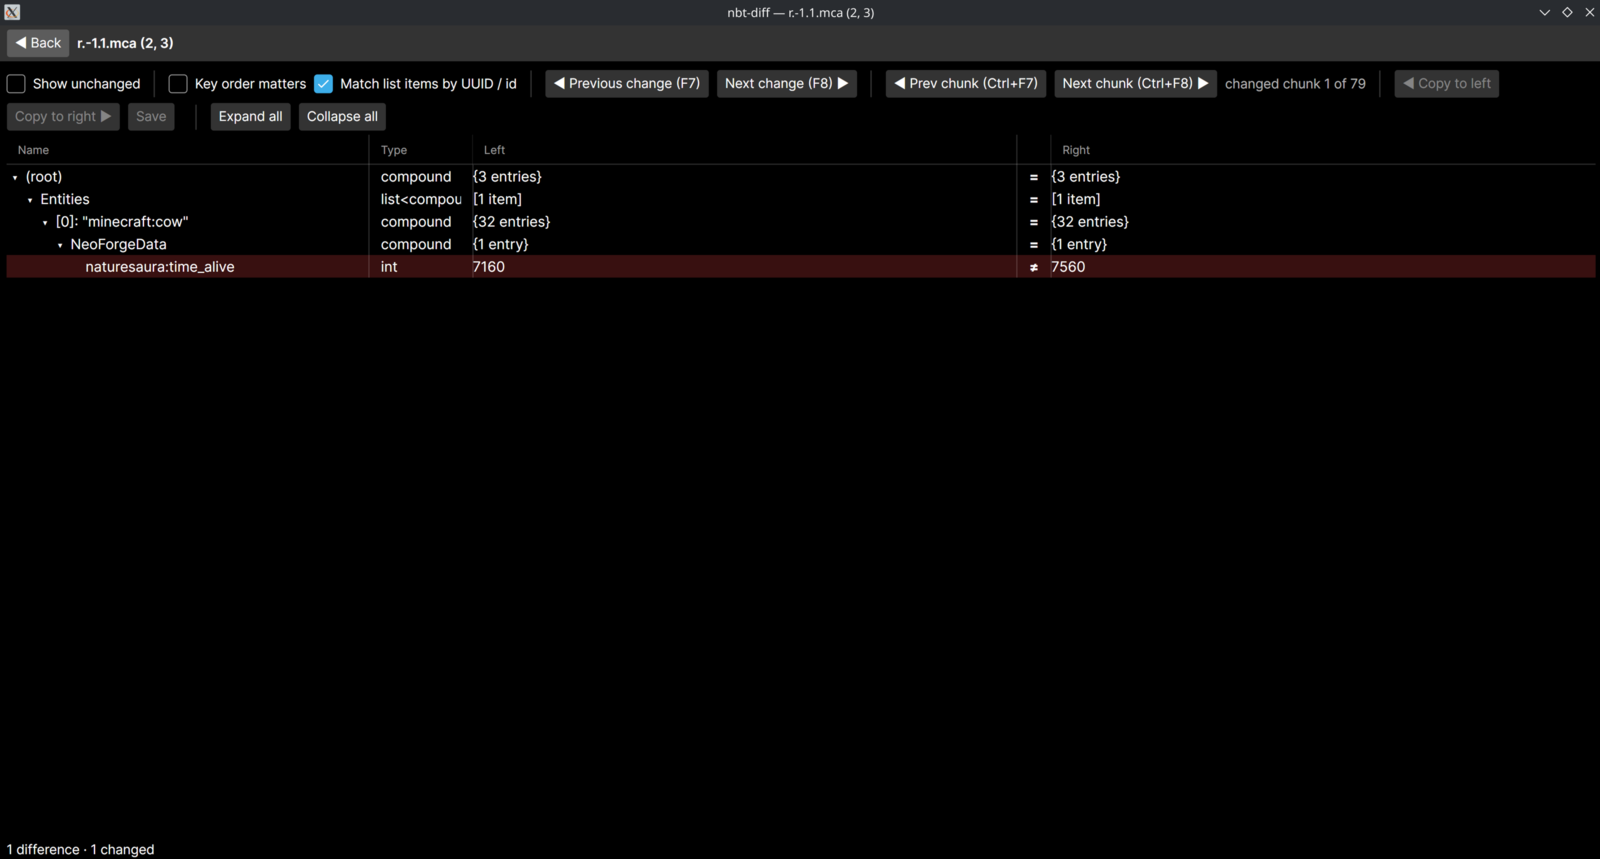
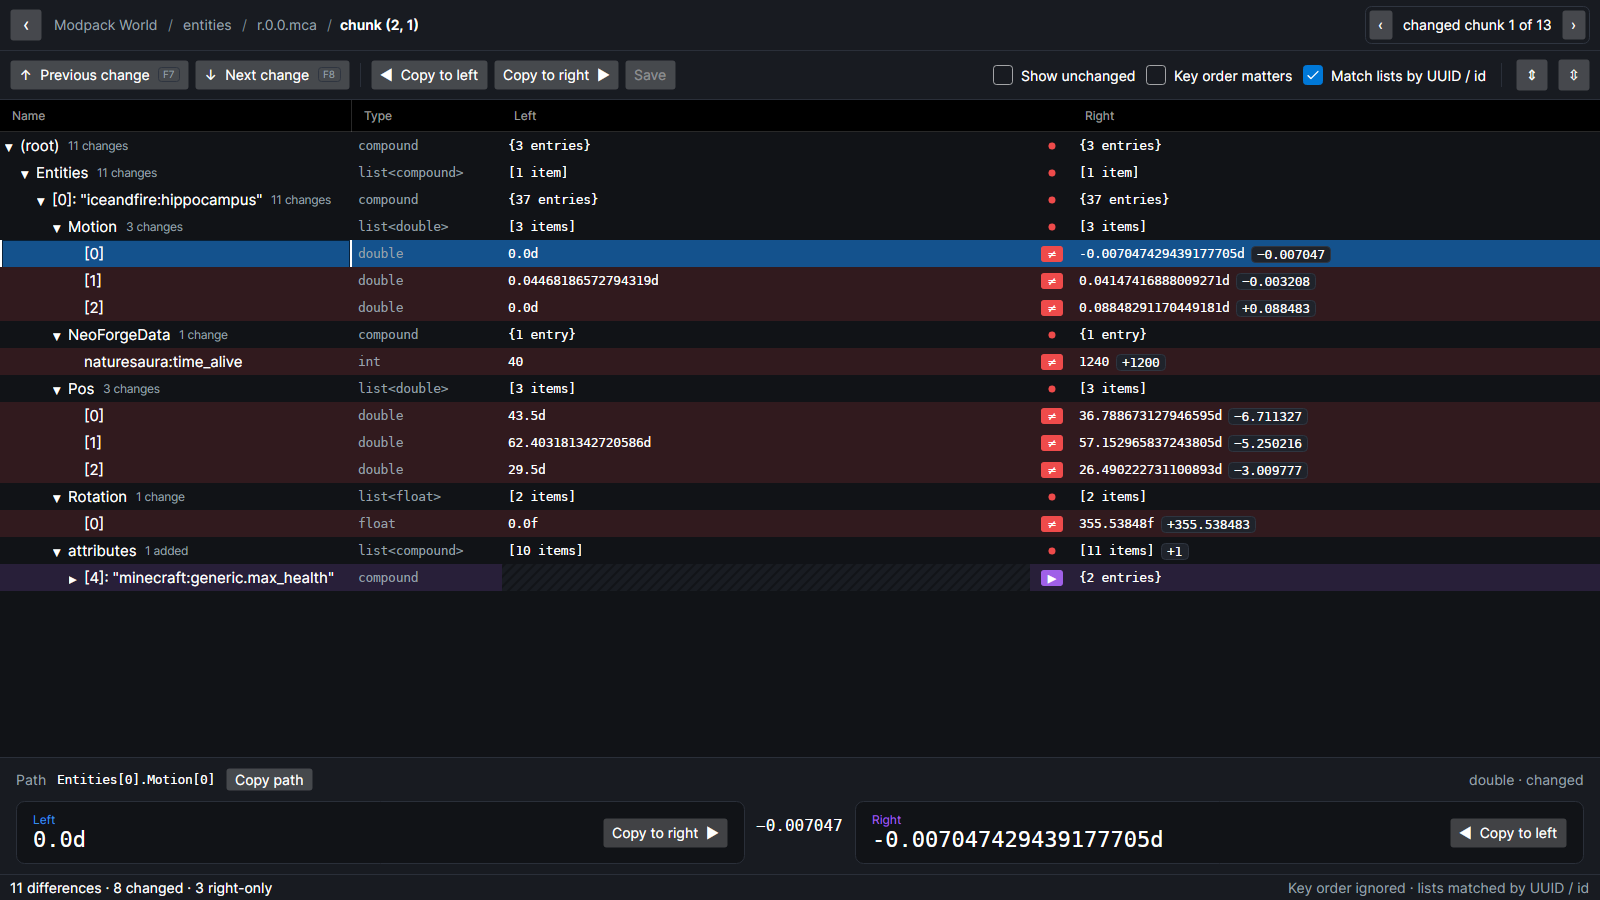
README: screenshots of the refreshed UI (rendered from the fixture data); describe the new views
tools/screenshots/render.cs now works on neutrally named copies addressed
by relative paths, and opens views through the folder compare so the
breadcrumbs are real.

Claude-Session: https://claude.ai/code/session_01Rv5Xd4DMF3k4PXUycnszhR

diff --git a/tools/screenshots/render.cs b/tools/screenshots/render.cs
@@ -17,8 +17,26 @@ using NbtDiff.Core;
 
 string outDir = Path.GetFullPath(args.Length > 0 ? args[0] : "screenshots");
 var variant = args.Length > 1 && args[1] == "light" ? ThemeVariant.Light : ThemeVariant.Dark;
-string data = Path.GetFullPath(Path.Combine("tests", "data", "real", "neoforge"));
+string fixtures = Path.GetFullPath(Path.Combine("tests", "data", "real", "neoforge"));
 Directory.CreateDirectory(outDir);
+
+// Work on copies with neutral names, addressed by relative paths, so no machine path shows in a shot.
+string work = Path.Combine(outDir, "worlds");
+if (Directory.Exists(work)) Directory.Delete(work, recursive: true);
+CopyTree(Path.Combine(fixtures, "initial"), Path.Combine(work, "Modpack World"));
+CopyTree(Path.Combine(fixtures, "expected"), Path.Combine(work, "Modpack World (later)"));
+Directory.SetCurrentDirectory(work);
+string left = "Modpack World", right = "Modpack World (later)";
+
+static void CopyTree(string from, string to)
+{
+    foreach (var file in Directory.EnumerateFiles(from, "*", SearchOption.AllDirectories))
+    {
+        var target = Path.Combine(to, Path.GetRelativePath(from, file));
+        Directory.CreateDirectory(Path.GetDirectoryName(target)!);
+        File.Copy(file, target);
+    }
+}
 
 AppBuilder.Configure<App>()
     .UseSkia()
@@ -52,18 +70,19 @@ void Snap(string name)
 }
 
 // Folder compare of the NeoForge fixture pair.
-shell.Start([Path.Combine(data, "initial"), Path.Combine(data, "expected")]);
+shell.Start([left, right]);
 var folder = (FolderCompareViewModel)shell.Current!;
 Settle(folder.ScanCompletion);
 Snap("folder");
 
-// Region grid, then the first changed chunk.
-var region = (RegionCompareViewModel)shell.CreateCompareView(FileKind.Region,
-    Path.Combine(data, "initial", "entities", "r.0.0.mca"), Path.Combine(data, "expected", "entities", "r.0.0.mca"));
-shell.Push(region);
+// Region grid (opened from the folder view, so the breadcrumb is real), then the first changed chunk.
+folder.SelectedRow = folder.Tree.Rows.Single(i => i.RelativePath == "entities/r.0.0.mca");
+folder.OpenSelectedCommand.Execute(null);
+var region = (RegionCompareViewModel)shell.Current!;
 Settle(region.LoadCompletion);
 var cell = region.Grid.Cells.First(c => c.Status == ChunkDiffStatus.Different);
 region.SelectCommand.Execute(cell);
+Settle();
 Settle();
 Snap("region");
 
@@ -74,11 +93,11 @@ chunk.SelectedItem = chunk.Tree.Rows.FirstOrDefault(i => i.DeltaText is not null
 Settle();
 Snap("tag");
 
-// FTB quest progress (SNBT) tag diff.
-var snbt = (FileCompareViewModel)shell.CreateCompareView(FileKind.Snbt,
-    Path.Combine(data, "initial", "ftbquests", "11111111-2222-4333-8444-555555555555.snbt"),
-    Path.Combine(data, "expected", "ftbquests", "11111111-2222-4333-8444-555555555555.snbt"));
-shell.Push(snbt);
+// FTB quest progress (SNBT) tag diff, opened from the folder view.
+Settle(shell.NavigateToCommand.ExecuteAsync(0));
+folder.SelectedRow = folder.Tree.Rows.Single(i => i.RelativePath.StartsWith("ftbquests/", StringComparison.Ordinal) && !i.IsDirectory);
+folder.OpenSelectedCommand.Execute(null);
+var snbt = (FileCompareViewModel)shell.Current!;
 Settle(snbt.LoadCompletion);
 Snap("snbt");
 return 0;

diff --git a/README.md b/README.md
@@ -9,21 +9,24 @@ are read, and reordered entity or item lists are matched by identity instead of 
 
 Runs on Windows and Linux.
 
-![World compare: two copies of a modded world side by side, mid-scan](docs/screenshots/folder-compare.png)
+![World compare: two copies of a modded world side by side](docs/screenshots/folder-compare.png)
 
 ## Features
 
 - **World compare.** Two world folders side by side as a tree with per-row states (same /
-  different / left only / right only / unreadable). Folders roll up the state of their contents;
-  filters show only differences, orphans or errors.
+  different / left only / right only / unreadable). Collapsed folders take the colour of what is
+  inside them and show their counts; filters with counts show only differences, one side, or errors.
 - **Only real differences.** Chunk timestamps, region sector layout and recompression are not
   differences. A fast byte-level pass finds candidates, then only those files are parsed and
   compared by content. Tags that change on every save (`LastUpdate`) are ignored by default.
-- **Region view.** A 32×32 grid of a region file's chunks, coloured by state; open any chunk for its
-  tag diff and step through the changed chunks with `Ctrl+F7` / `Ctrl+F8`.
-- **Tag diff.** An aligned tree of both sides: changed values, added and removed tags, type
-  changes, array differences. Lists of entities, block entities and items are matched by UUID,
-  position or id, so a reordered list is not reported as changed.
+- **Region view.** A 32×32 grid of a region file's chunks, coloured by state, with a panel that
+  shows the selected chunk's world coordinates and its first few changes before you open it. The
+  legend doubles as a filter; open any chunk for its tag diff and step through the changed chunks
+  with `Ctrl+F7` / `Ctrl+F8`.
+- **Tag diff.** An aligned tree of both sides: changed values (with the numeric delta), added and
+  removed tags, type changes, array differences. Lists of entities, block entities and items are
+  matched by UUID, position or id, so a reordered list is not reported as changed. The selected
+  tag's full values and NBT path sit in a detail pane.
 - **Text diff** for the other files in a world or modpack (`.json`, `.toml`, `.cfg`, `.properties`,
   `.yml`, logs…).
 - **Export** a folder compare as a text or JSON report.
@@ -41,12 +44,12 @@ Runs on Windows and Linux.
 <td><img src="docs/screenshots/chunk-diff.png" alt="Chunk tag diff: one changed value inside an entity"></td>
 </tr>
 <tr>
-<td align="center">Region view: which chunks changed</td>
-<td align="center">Chunk tag diff, stepping through changed chunks</td>
+<td align="center">Region view: which chunks changed, and what changed in the selected one</td>
+<td align="center">Chunk tag diff with value deltas and the detail pane</td>
 </tr>
 </table>
 
-![FTB Quests progress file (.snbt): quests completed on the right only](docs/screenshots/snbt-diff.png)
+![FTB Quests progress file (.snbt): quests completed and started on the right only](docs/screenshots/snbt-diff.png)
 
 ## Download
 
@@ -80,16 +83,17 @@ entry, and press Compare.
 
 ### Folder view
 
-Row states: `=` same · `≠` different · `≠?` bytes differ but content not yet verified · blue = left
-only · purple = right only · struck through = unreadable. Double-click a file to open it; a folder
+Row states: red `≠` different · dashed `≠?` bytes differ but content not yet verified · blue `◀`
+left only · purple `▶` right only · faint `=` same · struck through = unreadable. Double-click a
+file to open it; the breadcrumb at the top leads back to any level (or press `Esc`), and a folder
 scan keeps its state when you come back.
 
-The status bar says which pass is running: `pass 1 of 2 — hashing bytes` reads every file once
-without decompressing; `pass 2 of 2 — verifying content n/m` parses only the files whose bytes
+The status bar says which pass is running: `Pass 1 of 2 · hashing bytes` reads every file once
+without decompressing; `Pass 2 of 2 · verifying content n/m` parses only the files whose bytes
 differed. Until pass 2 has settled a row (or with Deep verify off) it shows `≠?`, never `≠`.
 Opening such a region verifies it and says so in the header when every chunk turns out identical.
 
-Options:
+Compare options (the button above the tree, which also shows the current settings):
 
 - **Ignore tags** — tag paths that are not content. Default `LastUpdate, Level/LastUpdate`; add
   `InhabitedTime` if you want that ignored too.
@@ -108,7 +112,7 @@ Options:
 | `Ctrl+F8` / `Ctrl+F7` | — | — | next / previous changed chunk of the region (chunk views only) |
 | `Alt+→` / `Alt+←` | — | — | copy the selected row's value or subtree to the other side |
 | `Ctrl+S` | — | — | save edited side(s) |
-| `◀ Back` button | | return to the previous view | |
+| `Esc` / breadcrumb | | back to the previous view, or any earlier level | |
 
 ## Editing and saving
 
